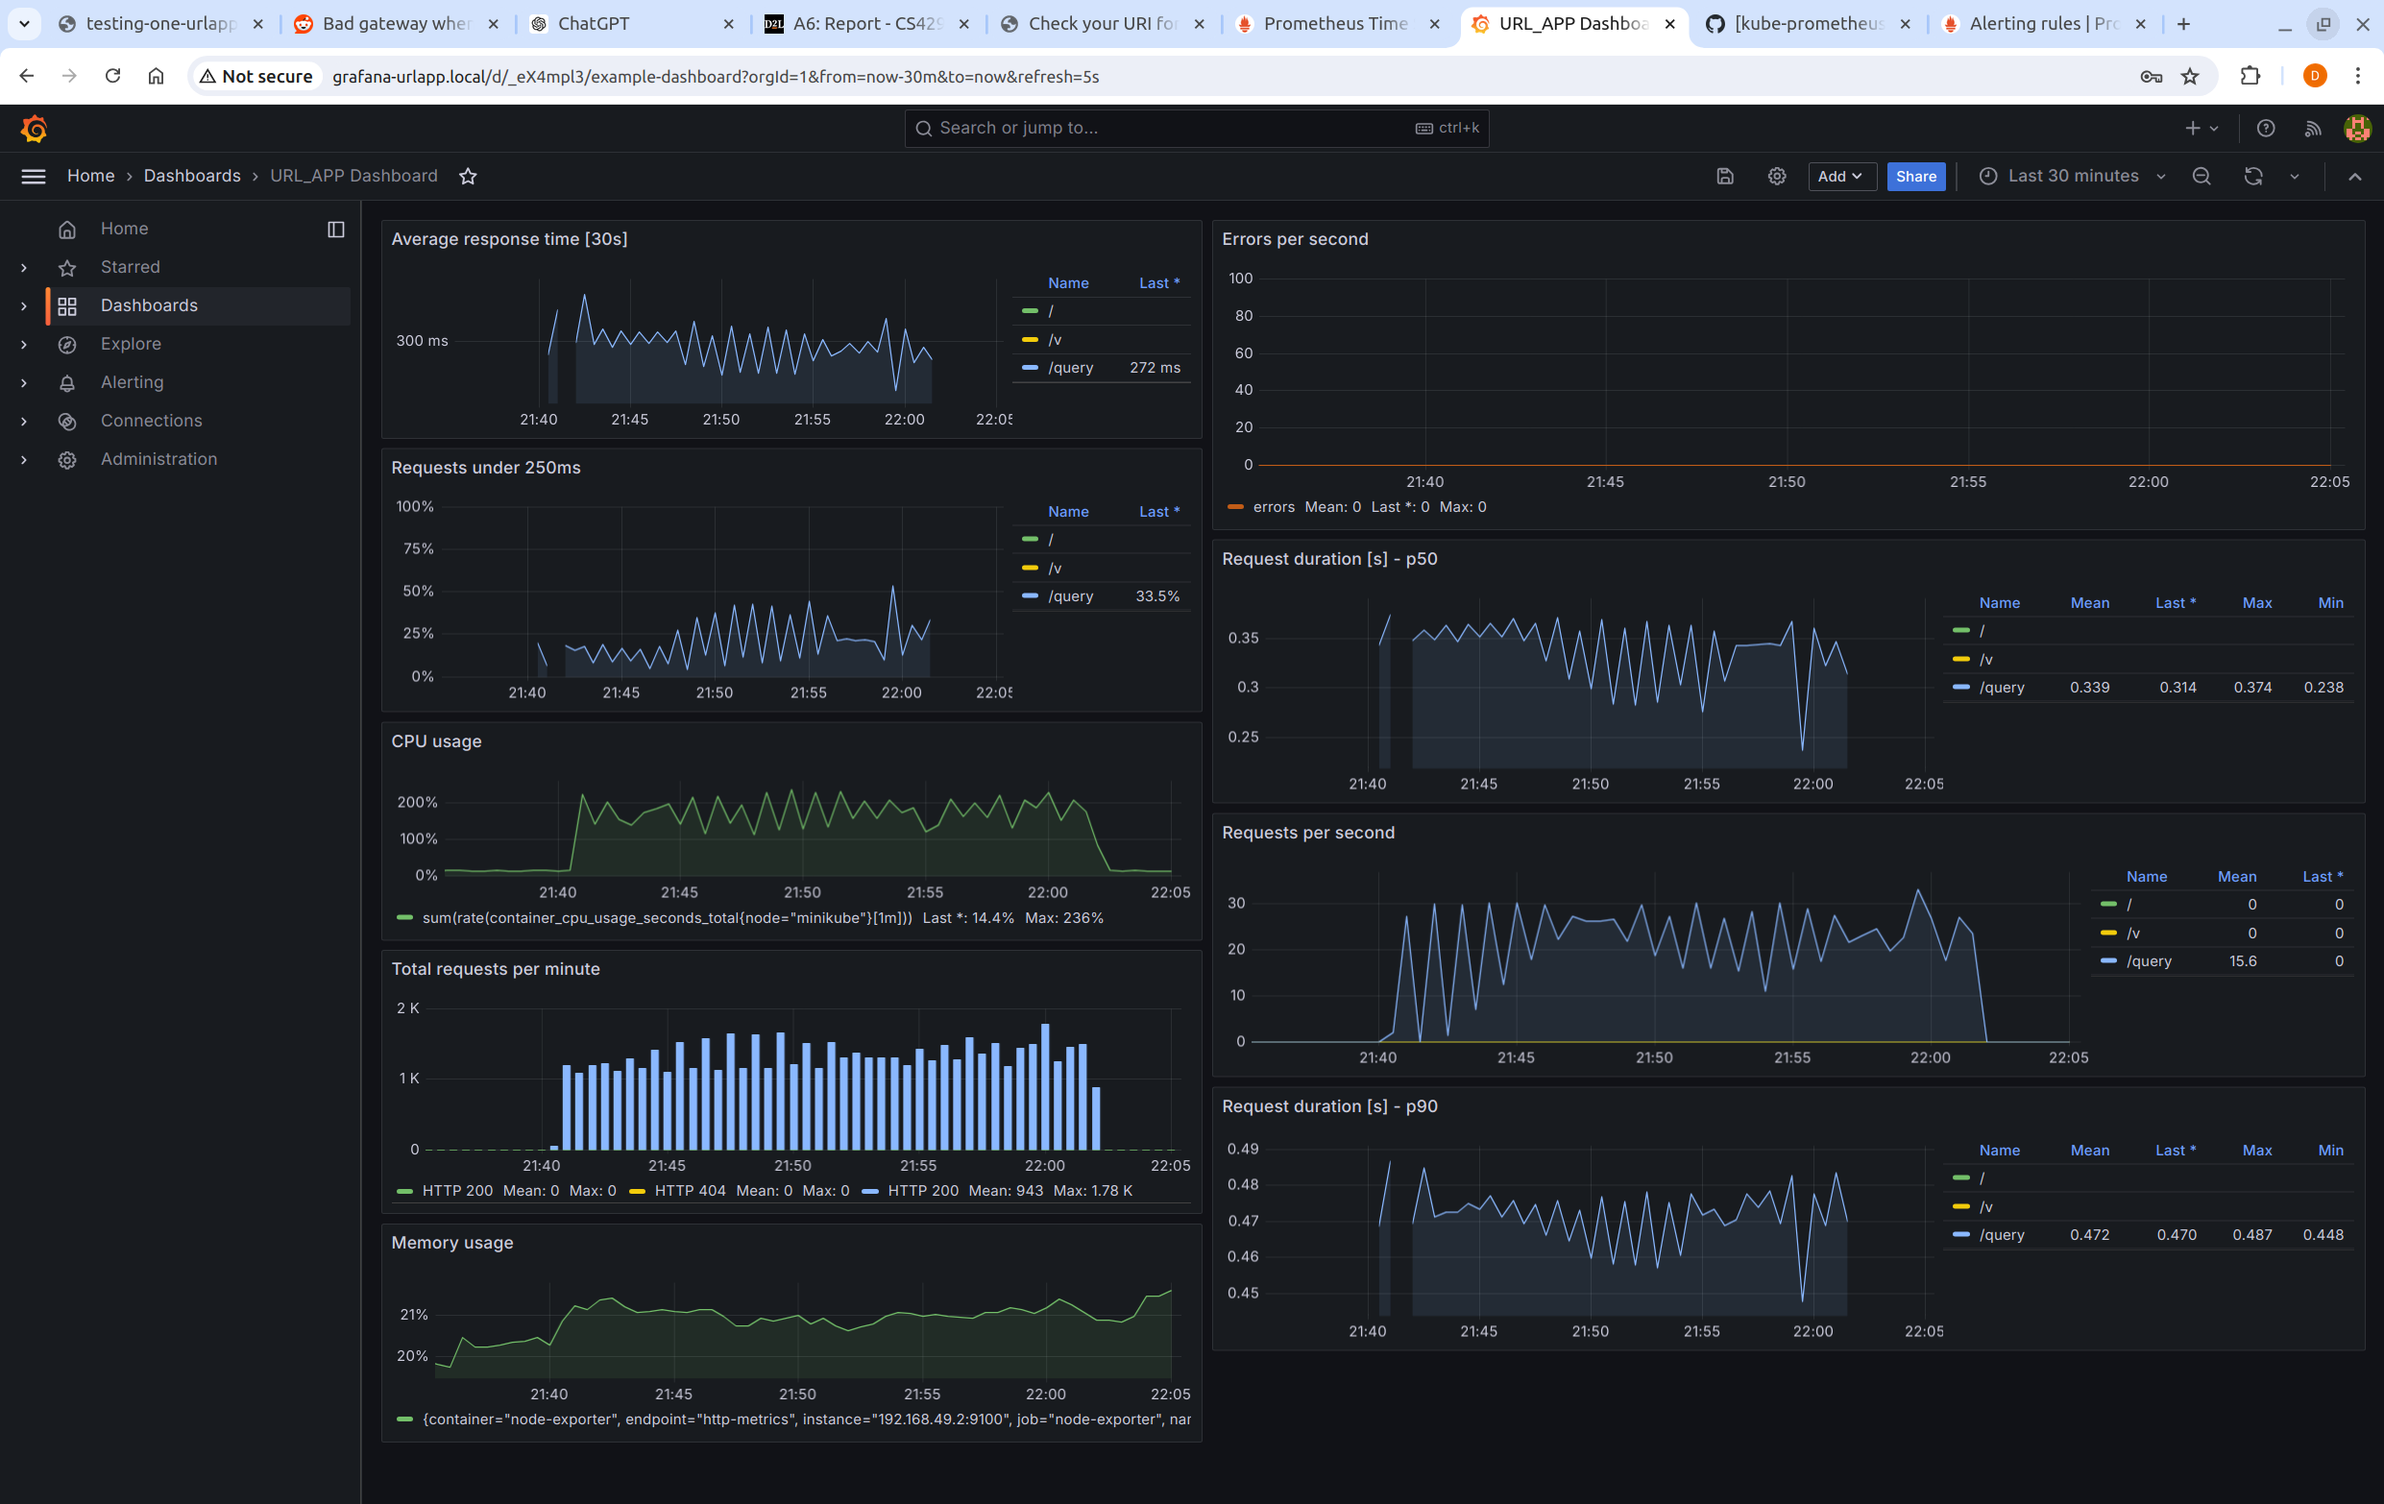
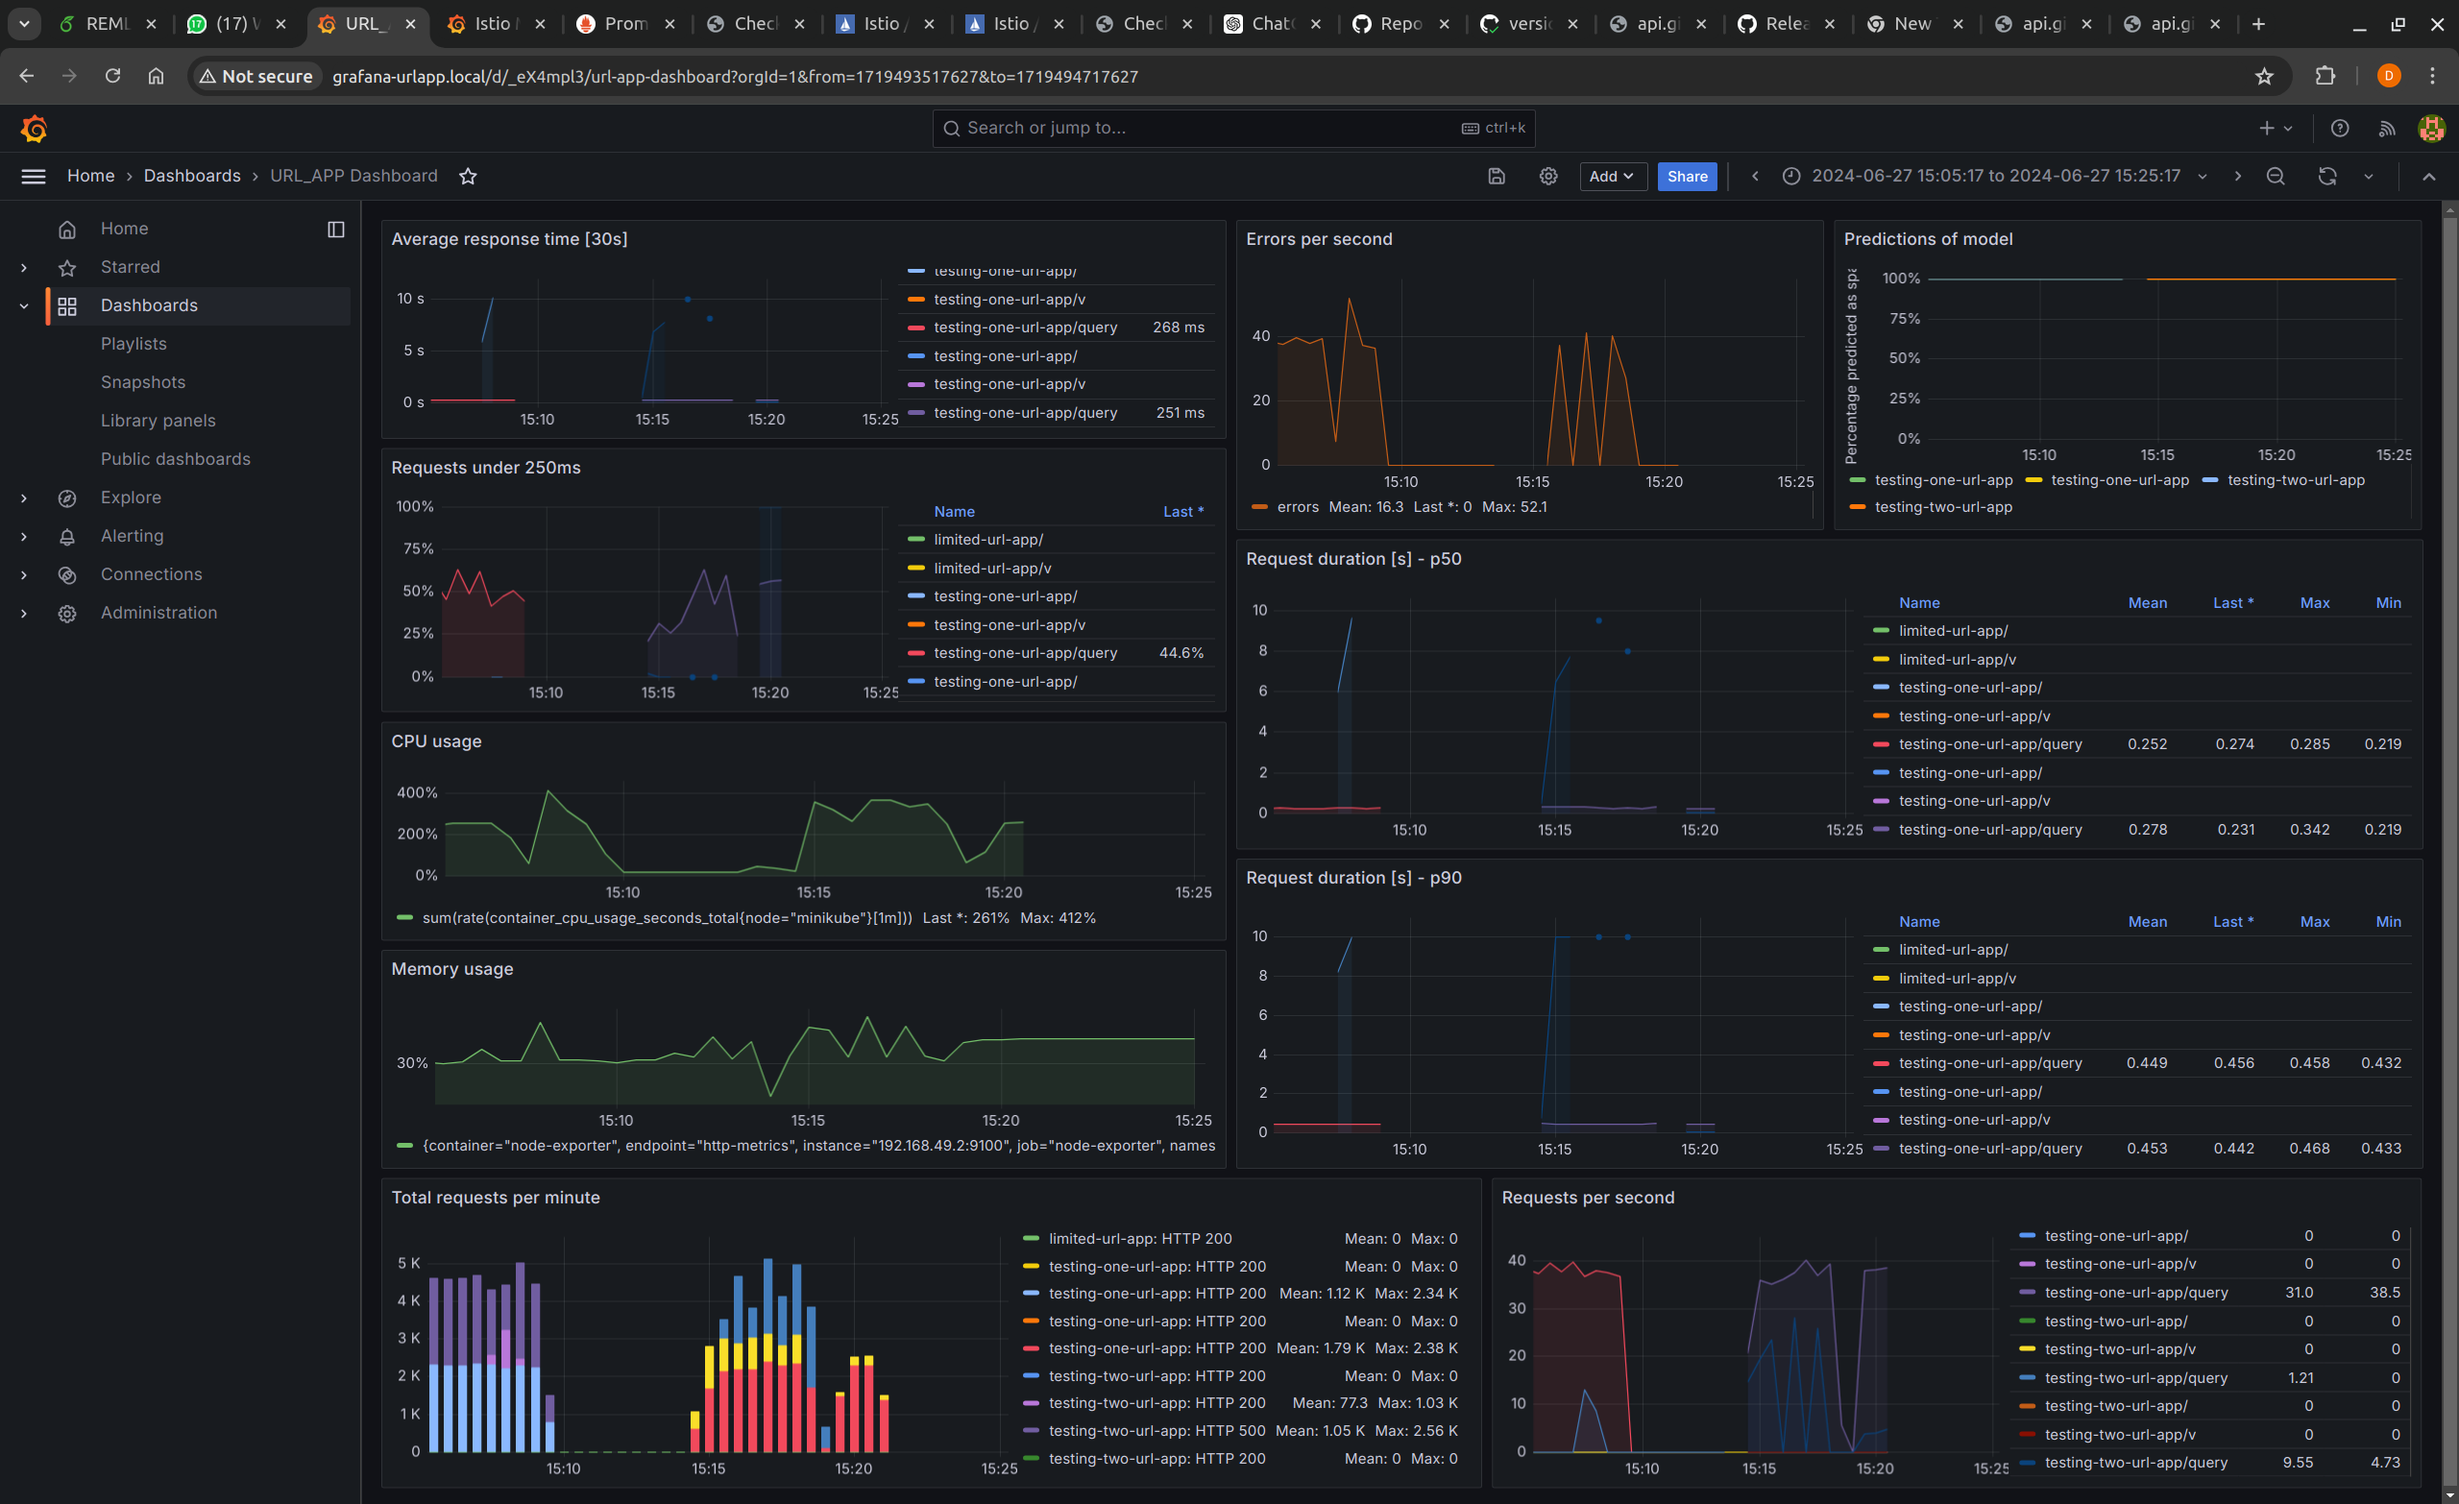
continous experimentation tested

diff --git a/query_generator.py b/query_generator.py
@@ -24,7 +24,7 @@ def run(target):
             time.sleep(1)
 
 if __name__ == '__main__':
-    urls = ['http://10.96.115.33/mirroring-url-app']
+    urls = ['http://10.96.115.33/testing-url-app']
     endpoint = '/query'
 
     endpoints = [url+endpoint for url in urls]
